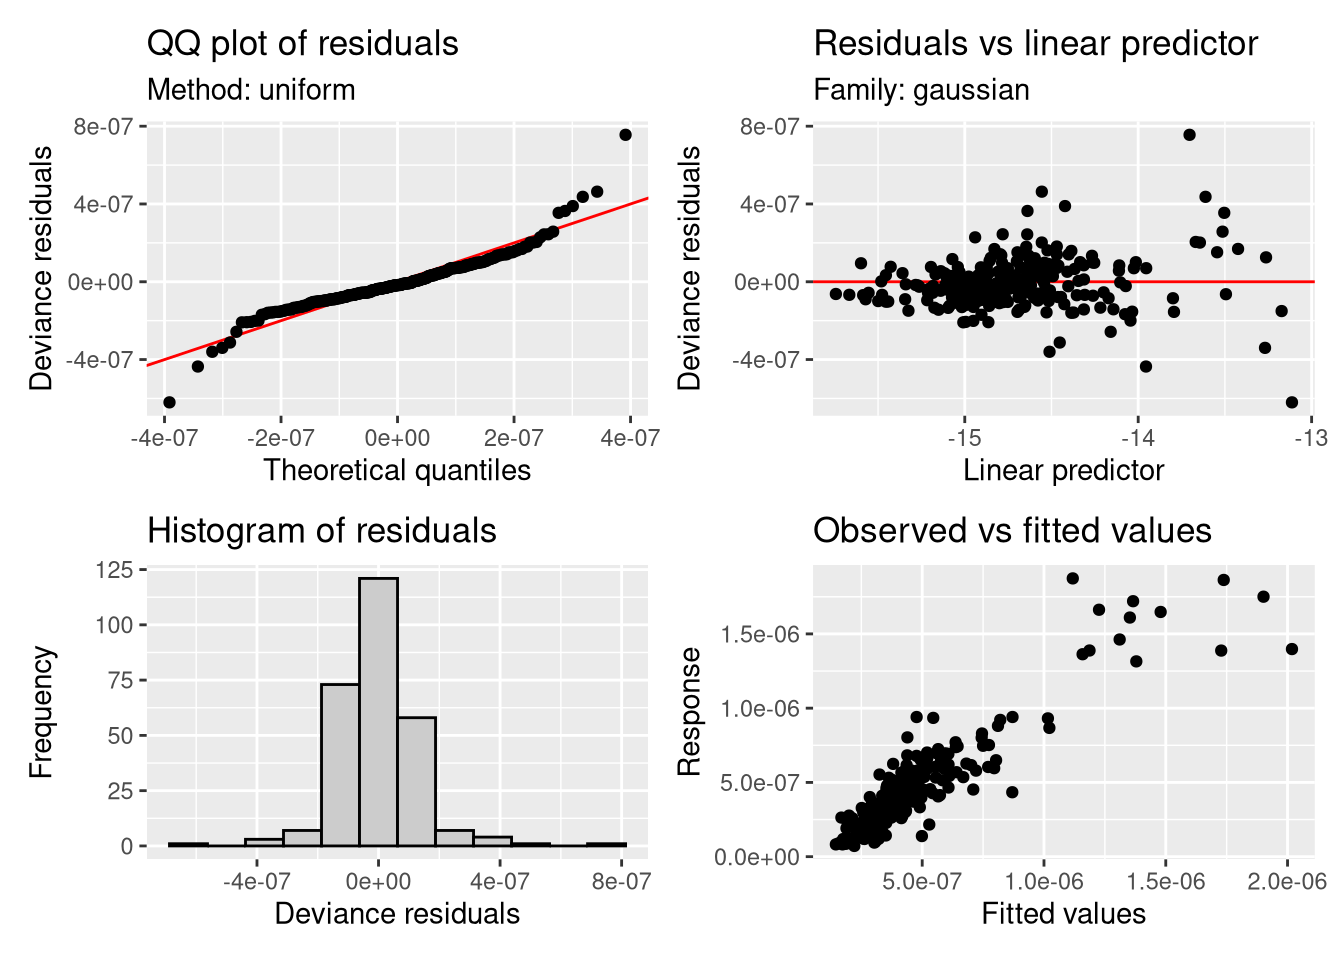
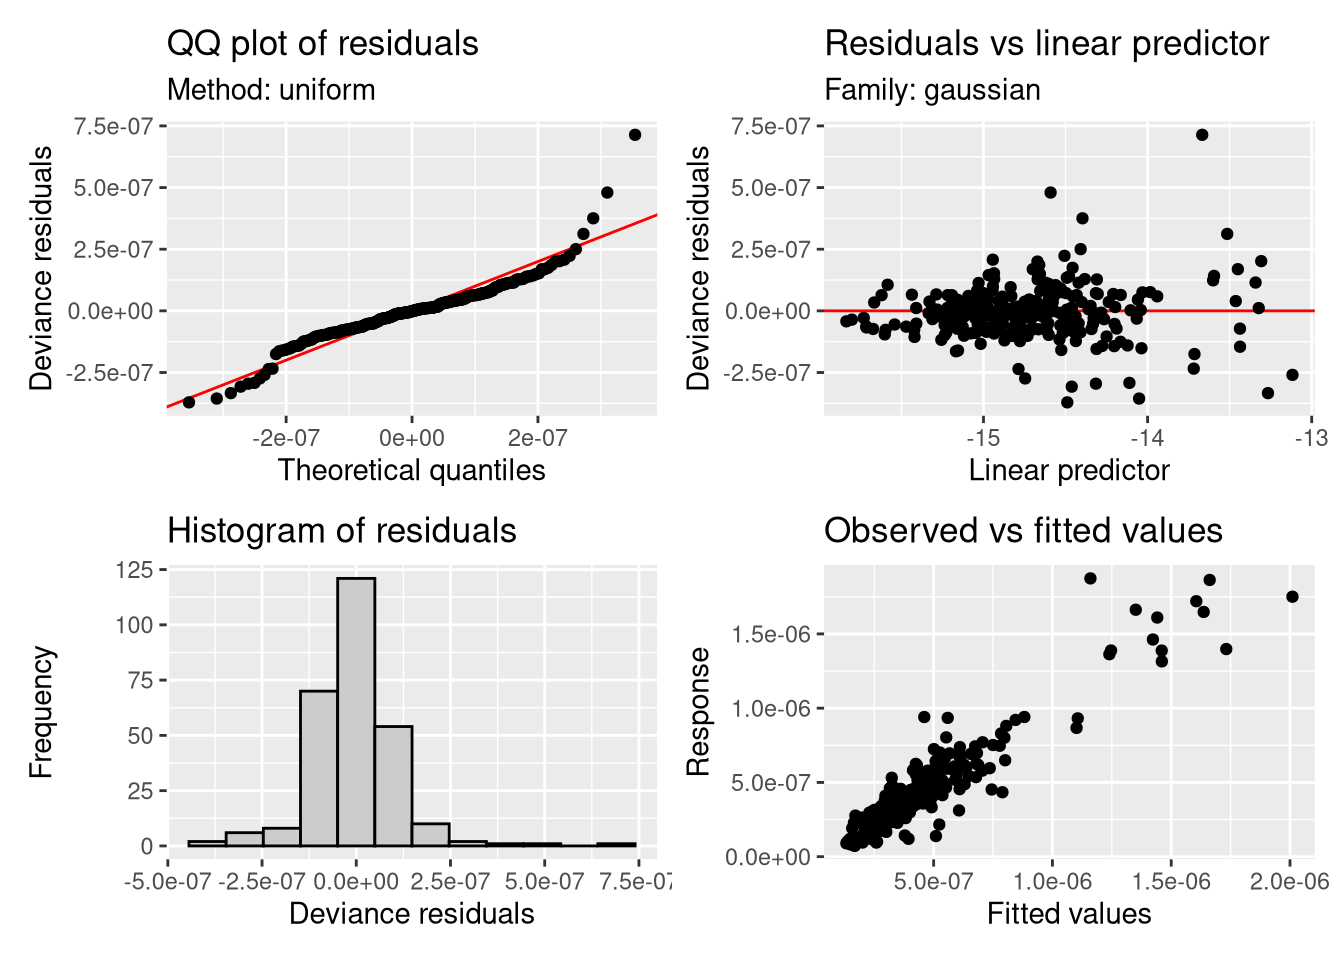
indici

diff --git a/docs/indici_all.html b/docs/indici_all.html
@@ -356,7 +356,7 @@ stringa modello: gam(value ~ s(s3_sup_200) + s(nirradiance_IQR) +
 s(cold_area) + s(tp_max) + s(pblmin_IQR, k=9) + s(m_dis_ferr) +
 s(s8_sup_200) , gamma=1.4, family=gaussian(link=log), data =
 df)<!-- html table generated in R 4.3.2 by xtable 1.8-4 package -->
-<!-- Mon Dec  4 11:31:10 2023 -->
+<!-- Mon Dec  4 11:40:44 2023 -->
 <table border="1">
 <caption align="bottom">
 </caption>
@@ -422,7 +422,7 @@ s(s3_sup_200)
 8.0180
 </td>
 <td align="right">
-37.8104
+37.8086
 </td>
 <td align="right">
 &lt; 0.0001
@@ -533,192 +533,7 @@ s(s8_sup_200)
 <a name=tab.gam></a>
 </table>
 <p>R²: 0.814</p>
-<p><img src="indici_all_files/figure-html/unnamed-chunk-1-1.png" width="672" /></p>
-</div>
-<div id="cr-clean" class="section level1">
-<h1>CR (clean)</h1>
-stringa modello: gam(value ~ s(s3_sup_200) + s(nirradiance_IQR) +
-s(cold_area) + s(tp_max) + s(pblmin_IQR, k=9) + s(m_dis_ferr) +
-s(s8_sup_200) , gamma=1.4, family=gaussian(link=log), data =
-df)<!-- html table generated in R 4.3.2 by xtable 1.8-4 package -->
-<!-- Mon Dec  4 11:31:11 2023 -->
-<table border="1">
-<caption align="bottom">
-</caption>
-<tr>
-<td>
-A. parametric coefficients
-</td>
-<td align="right">
-Estimate
-</td>
-<td align="right">
-Std. Error
-</td>
-<td align="right">
-t-value
-</td>
-<td align="right">
-p-value
-</td>
-</tr>
-<tr>
-<td>
-(Intercept)
-</td>
-<td align="right">
--14.7139
-</td>
-<td align="right">
-0.0220
-</td>
-<td align="right">
--669.7055
-</td>
-<td align="right">
-&lt; 0.0001
-</td>
-</tr>
-<tr>
-<td>
-B. smooth terms
-</td>
-<td align="right">
-edf
-</td>
-<td align="right">
-Ref.df
-</td>
-<td align="right">
-F-value
-</td>
-<td align="right">
-p-value
-</td>
-</tr>
-<tr>
-<td>
-s(s3_sup_200)
-</td>
-<td align="right">
-7.9105
-</td>
-<td align="right">
-8.0180
-</td>
-<td align="right">
-37.8074
-</td>
-<td align="right">
-&lt; 0.0001
-</td>
-</tr>
-<tr>
-<td>
-s(nirradiance_IQR)
-</td>
-<td align="right">
-2.2920
-</td>
-<td align="right">
-2.7098
-</td>
-<td align="right">
-55.7458
-</td>
-<td align="right">
-&lt; 0.0001
-</td>
-</tr>
-<tr>
-<td>
-s(cold_area)
-</td>
-<td align="right">
-1.0001
-</td>
-<td align="right">
-1.0002
-</td>
-<td align="right">
-18.6103
-</td>
-<td align="right">
-&lt; 0.0001
-</td>
-</tr>
-<tr>
-<td>
-s(tp_max)
-</td>
-<td align="right">
-2.4334
-</td>
-<td align="right">
-2.8725
-</td>
-<td align="right">
-14.4675
-</td>
-<td align="right">
-&lt; 0.0001
-</td>
-</tr>
-<tr>
-<td>
-s(pblmin_IQR)
-</td>
-<td align="right">
-1.0000
-</td>
-<td align="right">
-1.0000
-</td>
-<td align="right">
-7.6577
-</td>
-<td align="right">
-0.0061
-</td>
-</tr>
-<tr>
-<td>
-s(m_dis_ferr)
-</td>
-<td align="right">
-1.0000
-</td>
-<td align="right">
-1.0000
-</td>
-<td align="right">
-13.1093
-</td>
-<td align="right">
-0.0004
-</td>
-</tr>
-<tr>
-<td>
-s(s8_sup_200)
-</td>
-<td align="right">
-1.2504
-</td>
-<td align="right">
-1.4498
-</td>
-<td align="right">
-4.8263
-</td>
-<td align="right">
-0.0264
-</td>
-</tr>
-<a name=tab.gam></a>
-</table>
-<p>R²: 0.814</p>
-<p><img src="indici_all_files/figure-html/unnamed-chunk-2-1.png" width="672" /></p>
+<p><img src="indici_all_files/figure-html/unnamed-chunk-1-1.png" width="672" /><img src="indici_all_files/figure-html/unnamed-chunk-1-2.png" width="672" /></p>
 </div>
 <div id="non-cr" class="section level1">
 <h1>NON CR</h1>
@@ -727,7 +542,7 @@ stringa modello: gam(value ~ s(s3_sup_200) + s(wdir_mean) + s(cold_area)
 s(u10m_IQR) + s(pblmax_IQR) + s(pblmin_median, k=3) + s(rh_mean) ,
 gamma=1.4, family=gaussian(link=log), data =
 df)<!-- html table generated in R 4.3.2 by xtable 1.8-4 package -->
-<!-- Mon Dec  4 11:31:13 2023 -->
+<!-- Mon Dec  4 11:40:48 2023 -->
 <table border="1">
 <caption align="bottom">
 </caption>
@@ -972,7 +787,7 @@ s(rh_mean)
 <a name=tab.gam></a>
 </table>
 <p>R²: 0.847</p>
-<p><img src="indici_all_files/figure-html/unnamed-chunk-3-1.png" width="672" /></p>
+<p><img src="indici_all_files/figure-html/unnamed-chunk-2-1.png" width="672" /></p>
 </div>
 <div id="ncr-clean" class="section level1">
 <h1>NCR (clean)</h1>
@@ -980,7 +795,7 @@ stringa modello: gam(value ~ s(s3_sup_200) + s(cold_area) + s(kndvi) +
 s(s8_sup_200) + s(s1_sup_200, k=7) + s(rh_mean) , gamma=1.4,
 family=gaussian(link=log), data =
 df)<!-- html table generated in R 4.3.2 by xtable 1.8-4 package -->
-<!-- Mon Dec  4 11:31:15 2023 -->
+<!-- Mon Dec  4 11:40:49 2023 -->
 <table border="1">
 <caption align="bottom">
 </caption>
@@ -1140,7 +955,7 @@ s(rh_mean)
 <a name=tab.gam></a>
 </table>
 <p>R²: 0.79</p>
-<p><img src="indici_all_files/figure-html/unnamed-chunk-4-1.png" width="672" /></p>
+<p><img src="indici_all_files/figure-html/unnamed-chunk-3-1.png" width="672" /><img src="indici_all_files/figure-html/unnamed-chunk-3-2.png" width="672" /></p>
 </div>
 
 
